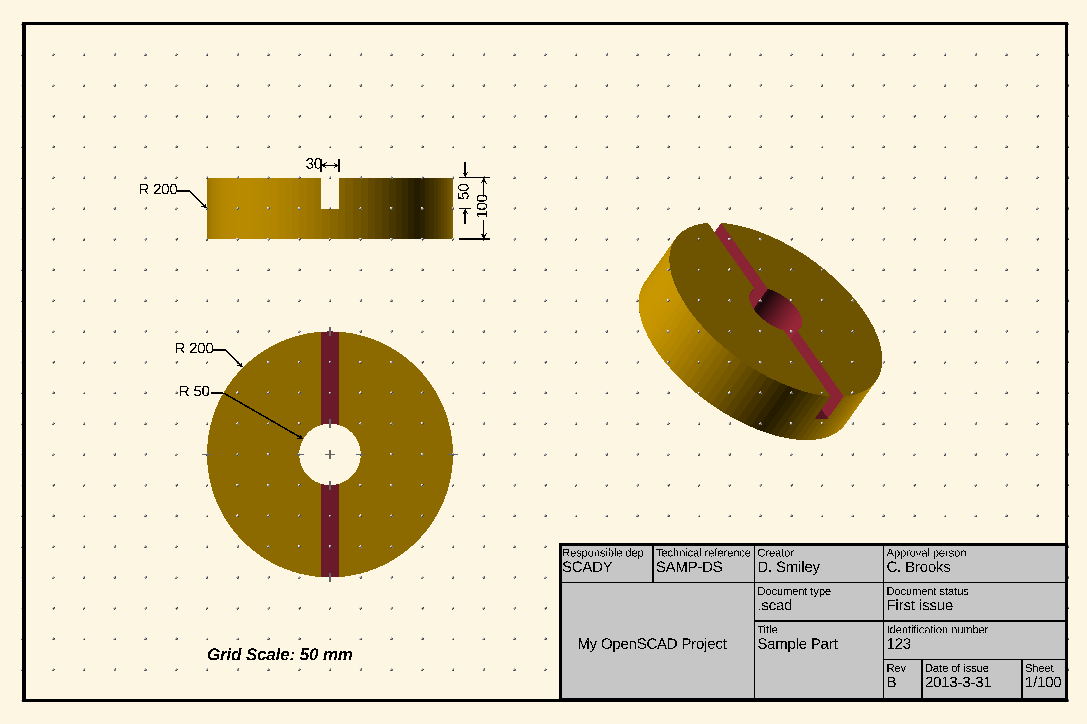
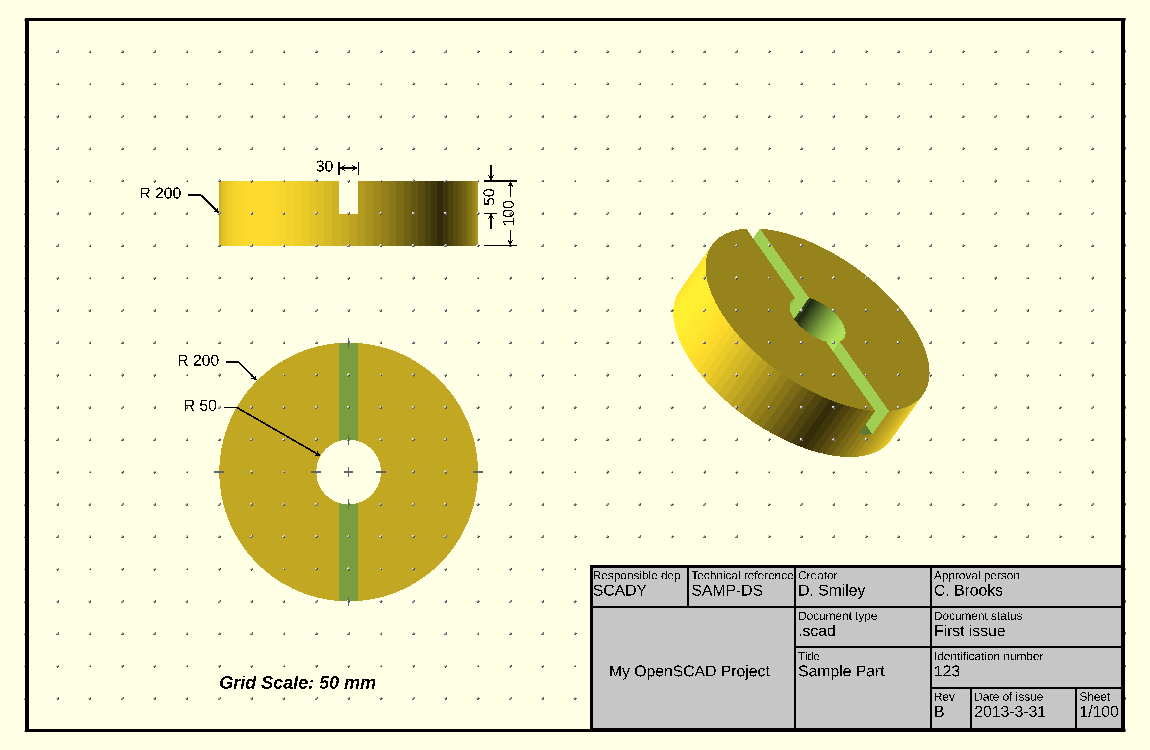
fix: stop dimension labels overlapping their lines and arrows
The room for a label was guessed at 7 font units per character, and
text size was locked to the line width, so labels ran into arrows and
dimension lines, worst at a large SCALING_FACTOR.

- dd_text_units() estimates a label's width: 7.724 per character, and
  3.859 for a period or a space. That is exact for numbers in the
  default font and needs no textmetrics(), so OpenSCAD 2021.01 still
  works.
- dimensions() centres the label in a break sized from that width.
  A centred dimension with no room for it draws the outside-arrows
  form, and puts the label past the arrows if it does not fit between
  them. Before, it emitted cubes of negative size.
- DIM_LEFT and DIM_RIGHT labels sit the same distance from the arrow.
- A left-hand leader label is right-aligned against its shoulder, and
  the do_circle ring is sized so its edge meets the shoulder's end.
- TEXT_SIZE sets the label height on its own. The default is still 7
  line widths. Title blocks keep that size, because their layout is
  written in line widths.

The docs images that show dimensions are regenerated.

Closes #2

diff --git a/docs/usage/configuration.md b/docs/usage/configuration.md
@@ -6,7 +6,7 @@ nav_order: 2
 
 # Configuration
 
-The library reads six variables when it is included. Set the ones you want **before** the include line. A value
+The library reads the variables below when it is included. Set the ones you want **before** the include line. A value
 assigned after the include is ignored.
 
 ```scad
@@ -21,6 +21,7 @@ include <DraftSCAD/dimdraft.scad>
 | `LINE_WIDTH`     | `0.025 * SCALING_FACTOR`   | `DIM_LINE_WIDTH`, the width of every line      |
 | `HEIGHT`         | `0.01 * SCALING_FACTOR`    | `DIM_LINE_HEIGHT`, the Z thickness of lines    |
 | `SPACE`          | `0.1 * SCALING_FACTOR`     | `DIM_SPACE`, the spacing unit                  |
+| `TEXT_SIZE`      | `7 * DIM_LINE_WIDTH`       | `DIM_TEXT_SIZE`, the height of label text      |
 | `LINE_COLOR`     | `"black"`                  | `DEF_LINE_COLOR`                               |
 | `TEXT_COLOR`     | `"black"`                  | `DEF_TEXT_COLOR`                               |
 
@@ -29,15 +30,32 @@ something else, the library will pick that value up.
 
 ## What follows from line width
 
-Everything else is derived from `DIM_LINE_WIDTH`.
+Unless you set `TEXT_SIZE`, everything else is derived from `DIM_LINE_WIDTH`.
 
 | Constant           | Value                  | Meaning                                         |
 | ------------------ | ---------------------- | ----------------------------------------------- |
-| `DIM_FONTSCALE`    | `DIM_LINE_WIDTH * 0.7` | Scale applied to all text                       |
+| `DIM_TEXT_SIZE`    | `DIM_LINE_WIDTH * 7`   | Height of label text                            |
+| `DIM_FONTSCALE`    | `DIM_TEXT_SIZE / 10`   | Scale applied to label text                     |
 | `DIM_HOLE_CENTER`  | `DIM_LINE_WIDTH * 6`   | Length of the marks drawn by `circle_center()`  |
 
-Text is drawn with OpenSCAD's default size of 10 and then scaled by `DIM_FONTSCALE`, so its height is 7 line widths.
-There is no separate text size setting.
+Text is drawn with OpenSCAD's default size of 10 and then scaled by `DIM_FONTSCALE`, so by default its height is 7
+line widths.
+
+## Text size
+
+Set `TEXT_SIZE` to size the text on its own, without changing the lines:
+
+```scad
+TEXT_SIZE = 0.3;
+include <DraftSCAD/dimdraft.scad>
+
+dimensions(length = 4);
+```
+
+It applies to the labels drawn by `dimensions()` and `leader_line()`. The gap a label needs follows the text size.
+
+Title blocks do not follow it. Their layout is written in line widths for text 7 line widths tall, so their text stays
+that size.
 
 With the defaults:
 

diff --git a/docs/reference/lines-and-dimensions.md b/docs/reference/lines-and-dimensions.md
@@ -81,6 +81,9 @@ Draws a dimension line from the origin along +X, `length` long, labelled with `l
 
 Use `DIM_LEFT`, `DIM_RIGHT` or `DIM_OUTSIDE` when the distance is too short to hold the label.
 
+If you do not, the module handles it. A `DIM_CENTER` dimension with no room for its label and two arrows is drawn in
+the `DIM_OUTSIDE` form. If the label does not fit between the arrows either, it goes to the right of them.
+
 ```scad
 include <DraftSCAD/dimdraft.scad>
 
@@ -102,10 +105,22 @@ Things to know:
 - The label is always `str(length)`. There is no way to add a prefix, a tolerance or units, or to set the precision.
 - A dimension is always horizontal. For a vertical one, wrap it in `rotate([ 0, 0, 90 ])`; the label rotates with it.
 - The module does not draw extension lines. Draw those with `line()`.
+- The room a label needs comes from `dd_text_units()`, an estimate that is exact for numbers in the default font.
 
-> **Known issue.** Labels can overlap arrows and each other, most visibly at a large `SCALING_FACTOR`, and
-> `DIM_CENTER` does not fall back when the label is wider than the distance. See
-> [#2](https://github.com/CameronBrooks11/DraftSCAD/issues/2).
+## dd_text_units
+
+```scad
+dd_text_units(text)
+```
+
+A function. It estimates the width of a string in font units, at OpenSCAD's default text size of 10. Multiply by
+`DIM_FONTSCALE` for the width as drawn.
+
+It counts 7.724 for every character except a period or a space, which count 3.859. Those are the advances of the
+digits, the period and the space in the default font, so the result is exact for a number: `dd_text_units("3.53")`
+is 27.031. It is only approximate for letters, which vary in width, and for any other font.
+
+The library estimates the width and does not call `textmetrics()`, so it needs nothing newer than OpenSCAD 2021.01.
 
 ## leader_line
 
@@ -144,8 +159,8 @@ leader_line(angle = -45, radius = radius, angle_length = 1, horz_length = 0.25, 
 
 ![Three leader lines around a hole centre: one to the right, one to the left, and one ending in a circled number](../assets/images/leader_line.png)
 
-The circle's radius grows with the length of the label, and the circle overlaps the end of the shoulder line. With a
-single character the overlap is about one line width; with more it shows.
+The circle is centred on the label and its edge meets the end of the shoulder line. Its size comes from
+`dd_text_units()`, so it fits a number; a label of letters may sit off-centre in it.
 
 ## circle_center
 

diff --git a/CHANGELOG.md b/CHANGELOG.md
@@ -6,6 +6,28 @@ The format follows [Keep a Changelog](https://keepachangelog.com/en/1.1.0/).
 
 ## [Unreleased]
 
+### Added
+
+- The `TEXT_SIZE` override, read as `DIM_TEXT_SIZE`. It sets the height of dimension and leader labels without
+  changing the line width. The default is unchanged at 7 line widths (#2).
+- `dd_text_units()`, which estimates the width of a label. It is exact for numbers in the default font (#2).
+
+### Changed
+
+- `dimensions()` centres its label in the break in the line, and sizes the break from the label's estimated width.
+  Labels sit slightly differently from 0.1.0 (#2).
+- `dimensions()` with `DIM_LEFT` and `DIM_RIGHT` puts the label the same short distance from its arrow on either
+  side. The right-hand label used to sit a full label width away (#2).
+- A left-hand `leader_line()` label is right-aligned against its shoulder line (#2).
+- The circle drawn by `leader_line(do_circle = true)` is sized from the label, so its edge meets the end of the
+  shoulder line. It is smaller than in 0.1.0 (#2).
+
+### Fixed
+
+- Dimension labels overlapped arrows and the dimension line, most visibly at a large `SCALING_FACTOR` (#2).
+- `dimensions()` with `DIM_CENTER` produced negative-size geometry when the label did not fit. It now draws the
+  outside-arrows form (#2).
+
 ## [0.1.0] - 2026-11-10
 
 The first tagged version. It includes everything in "History before this changelog" below.

diff --git a/docs/reference/index.md b/docs/reference/index.md
@@ -10,7 +10,7 @@ Every module the library provides, by file.
 
 | Page                                              | Modules                                                     | Source                     |
 | ------------------------------------------------- | ----------------------------------------------------------- | -------------------------- |
-| [Lines and dimensions](lines-and-dimensions.md)   | `line`, `arrow`, `dimensions`, `leader_line`, `circle_center` | `src/dd_dimlines.scad`     |
+| [Lines and dimensions](lines-and-dimensions.md)   | `line`, `arrow`, `dimensions`, `leader_line`, `circle_center`, `dd_text_units` | `src/dd_dimlines.scad`     |
 | [Sheets](sheets.md)                               | `draw_sheet`, `draw_frame`, `draw_grid`                     | `src/dd_sheet.scad`        |
 | [Title blocks](title-blocks.md)                   | `titleblock`, `titleblock0`, `titleblock1`, `revblock0`     | `src/dd_titleblock.scad`, `templates/` |
 | [Constants](constants.md)                         | The `DIM_*` constants                                       | `dimdraft.scad`            |

diff --git a/docs/reference/constants.md b/docs/reference/constants.md
@@ -18,7 +18,8 @@ them.
 | `DIM_LINE_WIDTH`   | 0.025                           | Width of every line                            |
 | `DIM_LINE_HEIGHT`  | 0.01                            | Z thickness of every line                      |
 | `DIM_SPACE`        | 0.1                             | Spacing unit for placing annotations           |
-| `DIM_FONTSCALE`    | 0.0175                          | Scale applied to text                          |
+| `DIM_TEXT_SIZE`    | 0.175                           | Height of label text                           |
+| `DIM_FONTSCALE`    | 0.0175                          | Scale applied to label text                    |
 | `DIM_HOLE_CENTER`  | 0.15                            | Length of the marks drawn by `circle_center()` |
 | `DIM_GRID_SPACING` | 50                              | Default grid pitch; does not scale             |
 | `DEF_LINE_COLOR`   | `"black"`                       | Default line colour                            |

diff --git a/docs/examples/index.md b/docs/examples/index.md
@@ -43,7 +43,4 @@ A slotted disc 400 units across, drawn with `SCALING_FACTOR = 100`. It shows:
 - leader lines for radii
 - `titleblock1`
 
-Some labels in this drawing touch their arrows and each other. That is
-[#2](https://github.com/CameronBrooks11/DraftSCAD/issues/2).
-
 Both sheet examples follow the file layout described in [Workflow](../usage/workflow.md).
